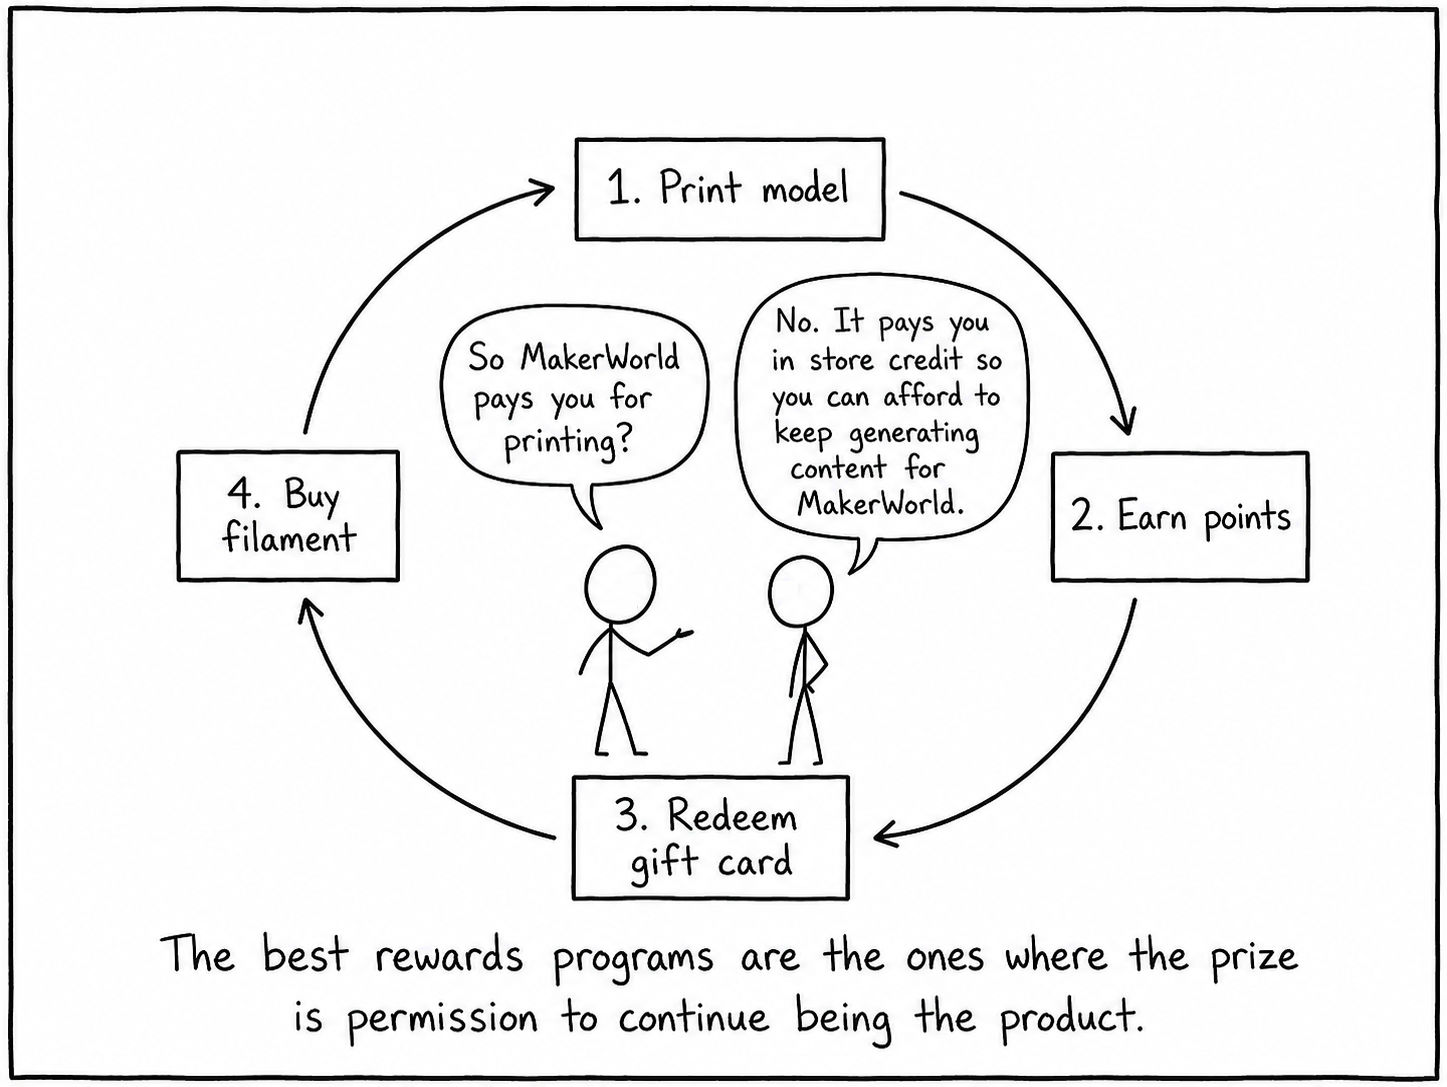
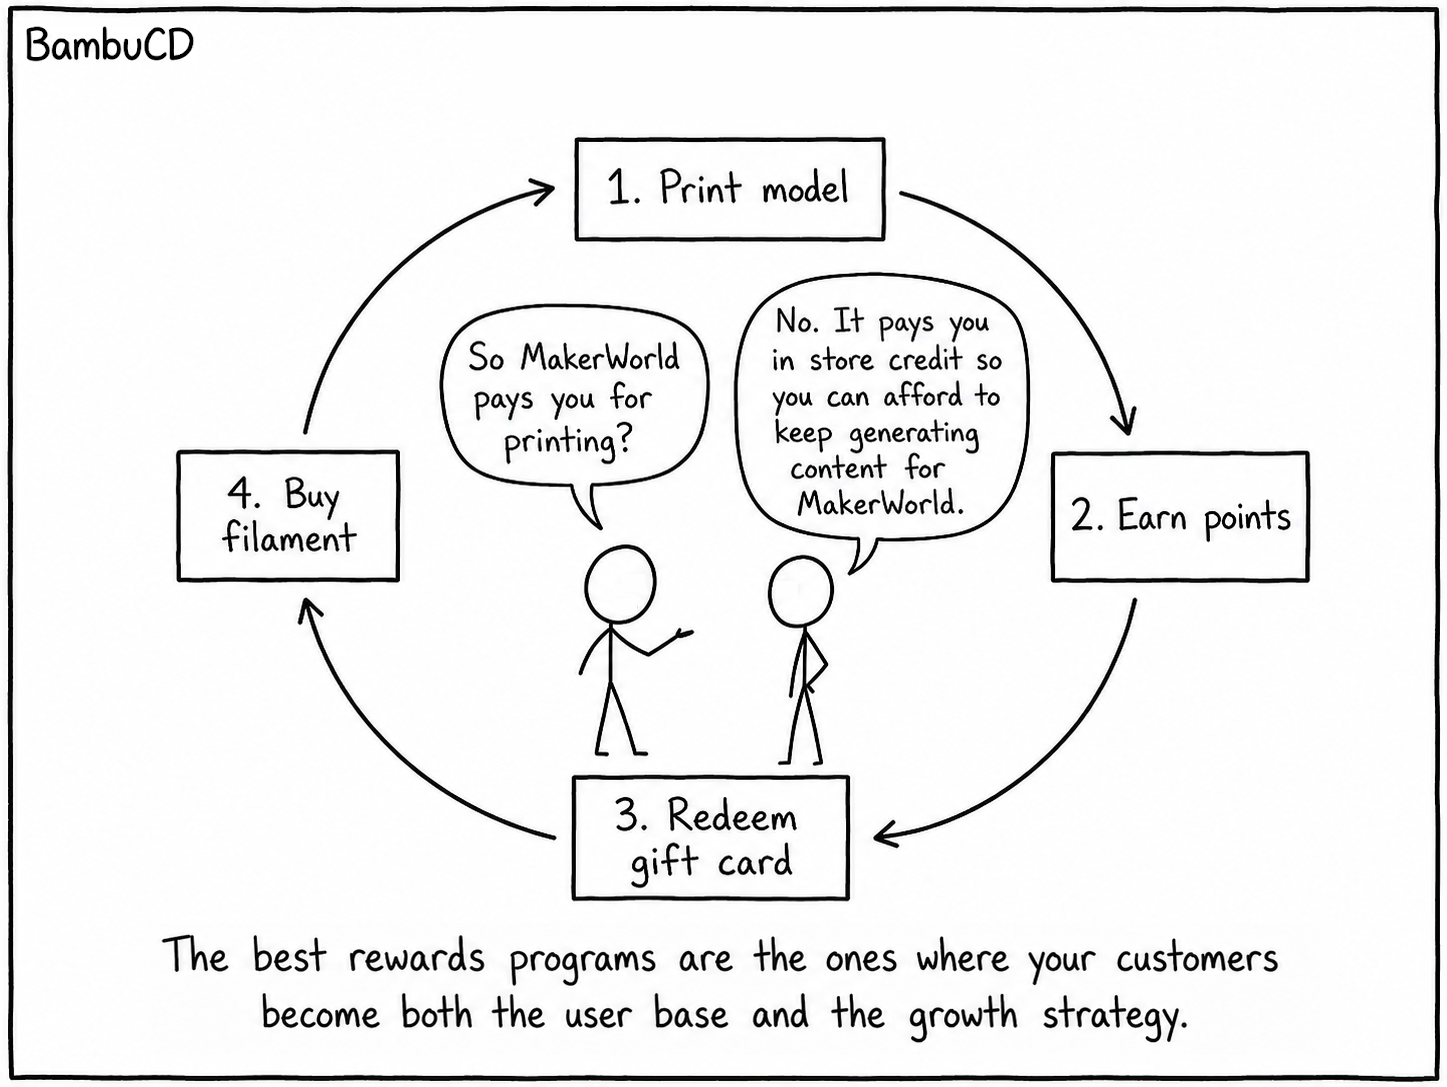
Update the-gift-card-system image and About page copy

Changed region(s): [[0.1244, 0.85, 0.9019, 0.9715], [0.0, 0.0304, 0.1244, 0.0607]]

diff --git a/src/app/about/page.tsx b/src/app/about/page.tsx
@@ -29,7 +29,7 @@ export default function AboutPage() {
         </a>
         , which is — and we cannot stress this enough — orders of magnitude
         better than the spaghetti our 3D printers churn out here. Randall draws
-        comics that make you think. We draw comics about a print that failed at
+        comics that make you think. We generate comics about a print that failed at
         97%. Go read xkcd. Then maybe come back.
       </p>
 
